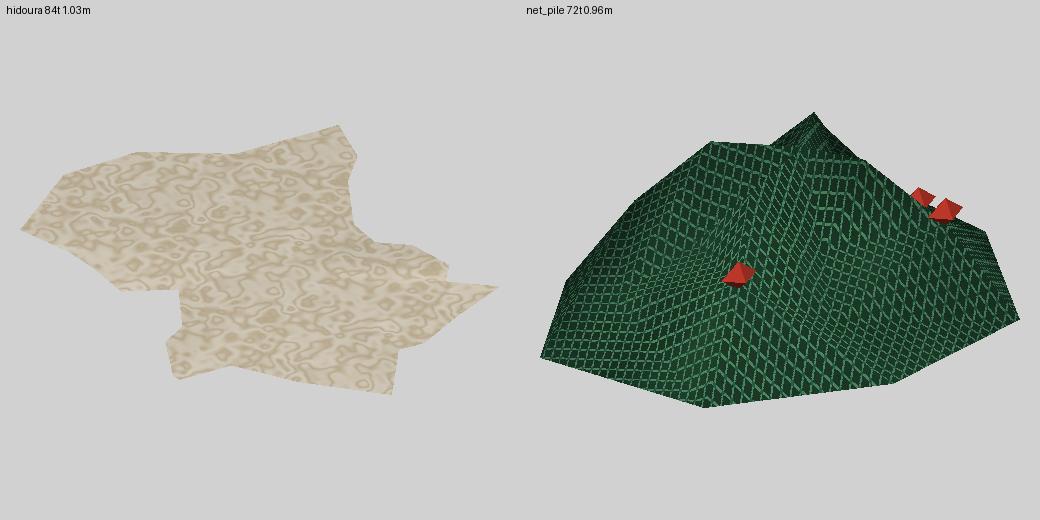
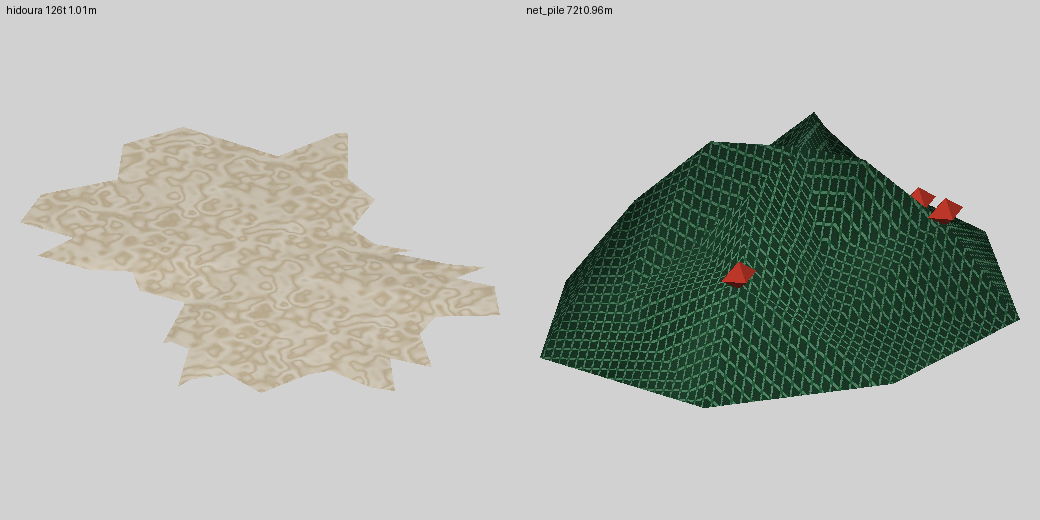
WIP fix-hide (round 2)
hidoura: two wool locks, out and in, along every outline edge (126 triangles).

Changed region(s): [[0.0, 0.2462, 0.4923, 0.7692], [0.0308, 0.0, 0.0923, 0.0308]]

diff --git a/citygen/interior/kit_old.py b/citygen/interior/kit_old.py
@@ -58,7 +58,7 @@ TABLE = {
     "mergoum": ("rug", "floor", (1.20, 2.00, 0.01), 10, {}),
     "zarbia": ("rug", "floor", (2.00, 3.00, 0.015), 10, {}),
     "hasira": ("rug", "floor", (1.80, 2.60, 0.01), 10, {}),
-    "hidoura": ("rug", "floor", (0.80, 1.10, 0.02), 84, {}),
+    "hidoura": ("rug", "floor", (0.80, 1.10, 0.02), 126, {}),
     "sajjada": ("rug", "floor", (0.65, 1.15, 0.01), 10, {}),
     "rahla": ("work", "floor", (0.32, 0.25, 0.35), 70, {}),
     "loom": ("work", "wall", (1.60, 0.80, 2.20), 300, {"use": 0.8}),
@@ -840,8 +840,8 @@ def klim(s, v, rng):
 
 def hidoura(s, v, rng):
     """The sheepskin of the Aid: a hide outline with its four legs, neck and tail and four shaggy tufts on
-    the flanks, a wool lock pushed in or out between every two points; the fleece domed over a soft
-    shoulder to its full height in the middle and thin at the ragged edge; wool locks in the image (84 triangles)."""
+    the flanks, two wool locks, one out and one in, along every edge; the fleece domed over a soft
+    shoulder to its full height in the middle and thin at the ragged edge; wool locks in the image (126 triangles)."""
     w, d, h = s
     hide = [(0.0, 0.5), (0.2, 0.38), (0.5, 0.30), (0.30, 0.02), (0.5, -0.36), (0.06, -0.5),
             (-0.5, -0.36), (-0.30, 0.02), (-0.5, 0.30), (-0.2, 0.38)]
@@ -852,9 +852,9 @@ def hidoura(s, v, rng):
             q = hide[i + 1]
             out.append(((p[0] + q[0]) / 2 * rng.uniform(1.05, 1.18), (p[1] + q[1]) / 2))
     out = np.array(out)
-    mid = (out + np.roll(out, -1, axis=0)) / 2               # a lock between every two points, in or out
-    lock = np.where(np.arange(len(out)) % 2, 0.90, 1.10)[:, None] * rng.uniform(0.96, 1.04, (len(out), 1))
-    out = np.stack([out, mid * lock], axis=1).reshape(-1, 2) + rng.uniform(-0.03, 0.03, (2 * len(out), 2))
+    nxt = np.roll(out, -1, axis=0)                           # two wool locks along every edge, out then in
+    locks = [out] + [(out + (nxt - out) * f) * k * rng.uniform(0.97, 1.03, (len(out), 1)) for f, k in ((1 / 3, 1.13), (2 / 3, 0.88))]
+    out = np.stack(locks, axis=1).reshape(-1, 2) + rng.uniform(-0.02, 0.02, (3 * len(out), 2))
     out = (out - out.min(axis=0)) / (out.max(axis=0) - out.min(axis=0)) - 0.5
     m = len(out)
     edge = RUG_Z + rng.uniform(0.002, 0.006, m)               # the ragged hem, some locks lifted

diff --git a/docs/wip/fix-hide.md b/docs/wip/fix-hide.md
@@ -1,2 +1,2 @@
-fix-hide (3 November, sheet `docs/wip/fix-hide.png`, quick look only): hidoura now has 28 edge points (a wool lock pushed in or out between every two outline points), a soft shoulder ring at 70 % of the crown height and the crown (84 triangles, still under the 2 cm rug limit, so the dome stays low), and the `fleece` image has larger, lighter cream locks (locks 10, crimp 3, 0.4 m tile); net_pile now uses one top-down UV projection (x, -y) across the whole pile instead of (x, -(y+z)).
-Left / doubt: the dome can only be 1.5 cm high (rugs must stay under 2 cm in tests/test_homekit.py), so from a low camera it may still read flat; the top-down net projection still stretches a little on the steepest folds; not yet looked at in the 3D view.
+fix-hide (3 November, sheet `docs/wip/fix-hide.png`): net_pile now uses one top-down UV projection (x, -y) over the whole pile, and on the sheet the diamonds are square and run on unbroken across every crease (better); hidoura now has two wool locks (one out, one in) along every outline edge, so its edge is ragged with tufts and no long straight sides, a soft shoulder ring under the crown (126 triangles), and a lighter cream `fleece` with larger locks (locks 10, crimp 3, 0.4 m tile) that no longer reads as sand.
+Left / doubt: the legs and neck read less clearly now that every edge is ragged (the outline is a bit star-like); the dome cannot show because a rug must stay under 2 cm (tests/test_homekit.py), so only shading hints at it; the fleece blobs still look more mottled than curly; not yet looked at in the 3D view.
